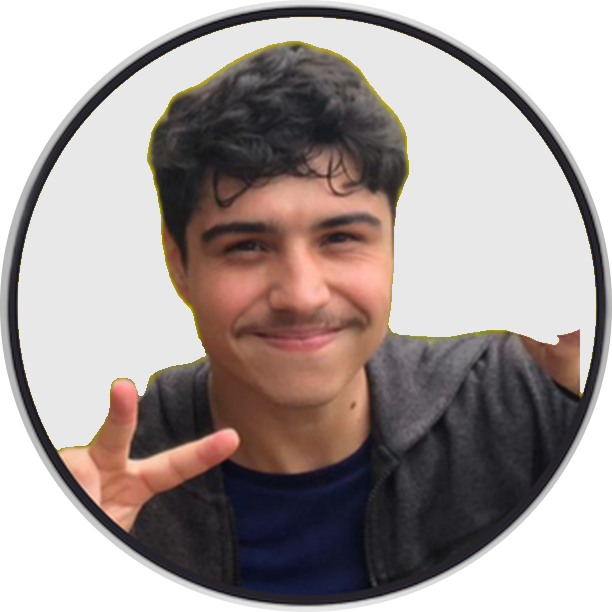
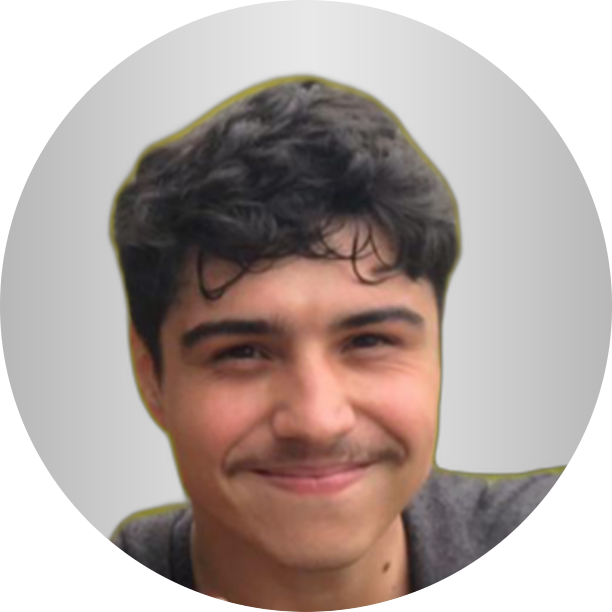
zap

diff --git a/style/style.css b/style/style.css
@@ -72,7 +72,7 @@ header .contatos li a {
   0% {
     transform: rotate(0deg);
   }
-  50% {
+  92% {
     transform: rotate(0deg);
   }
   100% {
@@ -83,7 +83,7 @@ header .contatos li a {
   0% {
     transform: rotate(0deg);
   }
-  50% {
+  92% {
     transform: rotate(0deg);
   }
   100% {
@@ -164,7 +164,9 @@ main {
   margin-top: 15px;
   width: 200px;
   height: 200px;
+  border-radius: 100%;
   margin-bottom: 22px;
+  border: 5px solid #000000;
 }
 .home .apresentacao span {
   font-size: 16px;
@@ -308,6 +310,9 @@ main {
   flex-direction: column;
   width: 75vw;
 }
+.contato form:active {
+  color: #495464;
+}
 .contato form input {
   text-align: center;
   width: 100%;
@@ -315,11 +320,17 @@ main {
   padding: 10px;
   color: #495464;
 }
+.contato form input:active {
+  color: #495464;
+}
 .contato form textarea {
   text-align: center;
   width: 100%;
   margin: 6px 0;
   padding: 30px;
+}
+.contato form textarea:active {
+  color: #495464;
 }
 
 footer {

diff --git a/index.html b/index.html
@@ -103,10 +103,10 @@
         <section class="contato">
             <h2>Contato</h2 anime="left">
             <form action="" id="form" anime="right">
-                <input id="nome" type="text" placeholder="Nome | Empresa">
-                <input id="email" type="email" placeholder="E-mail">
-                <input id="assunto" type="text" placeholder="Assunto">
-                <textarea name="mensagem" id="mensagem" cols="20" rows="1" placeholder="Mensagem"></textarea>
+                <input id="nome" type="text" required placeholder="Nome | Empresa">
+                <input id="email" type="email" required placeholder="E-mail">
+                <input id="assunto" type="text" required placeholder="Assunto">
+                <textarea name="mensagem" required id="mensagem" cols="20" rows="1" placeholder="Mensagem"></textarea>
                 <input type="submit" value="Enviar">
             </form>
         </section>

diff --git a/style/components/main-componets/_contato.scss b/style/components/main-componets/_contato.scss
@@ -20,6 +20,9 @@
         justify-content: center;
         flex-direction: column;
         width: 75vw;
+        &:active {
+            color: $fonte;
+        }
 
         input {
             text-align: center;
@@ -27,6 +30,10 @@
             margin: 3px 0;
             padding: 10px;
             color: $fonte;
+
+            &:active {
+                color: $fonte;
+            }
         }
 
         textarea {
@@ -34,6 +41,10 @@
             width: 100%;
             margin: 6px 0;
             padding: 30px;
+
+            &:active {
+                color: $fonte;
+            }
         }
     }
 }

diff --git a/style/components/main-componets/_home.scss b/style/components/main-componets/_home.scss
@@ -16,8 +16,9 @@
             margin-top: 15px;
             width: 200px;
             height: 200px;
-            // border-radius: 100%;
+            border-radius: 100%;
             margin-bottom: 22px;
+            border: 5px solid #000000;
         }
 
         span {

diff --git a/style/components/_header.scss b/style/components/_header.scss
@@ -29,7 +29,7 @@ header {
                         transform: rotate(0deg);
                     }
 
-                    50% {
+                    92% {
                         transform: rotate(0deg);
 
                     }
